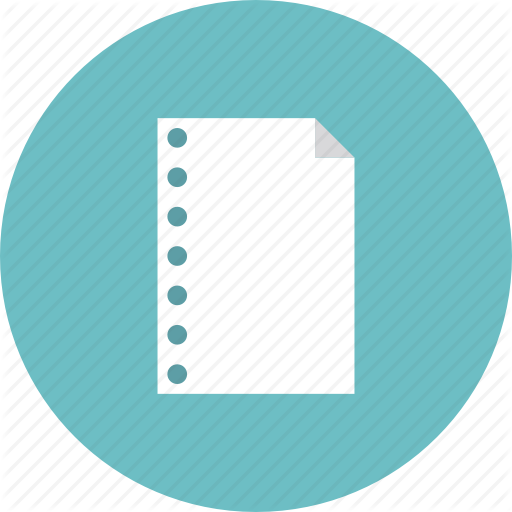
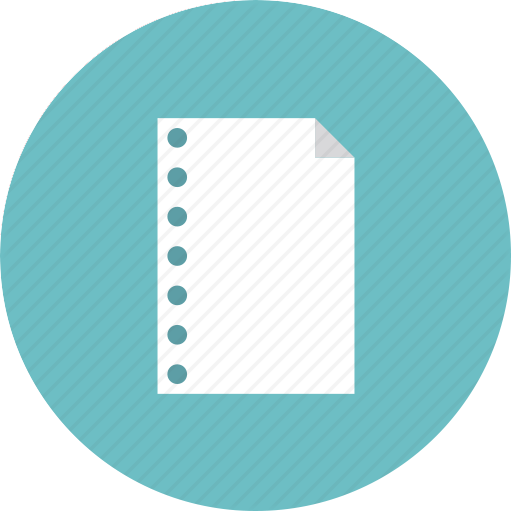
Add new no-items image, add search to context, create useSearch, add findQuotes util

diff --git a/src/context/quotesListContext/index.js b/src/context/quotesListContext/index.js
@@ -1,16 +1,19 @@
 import React, { createContext } from 'react';
 import PropTypes from 'prop-types';
 import { FIRST_PAGE } from "../../constants/pagination";
-import { getDataForCurrentPage } from "../../utils";
+import { findQuotes, getDataForCurrentPage } from "../../utils";
 import { quotesPerPage } from "../../services/getDeviceSize";
 import { initState } from '../../reducers/dataFetchReducer';
 import useFetchQuotesList from '../../hooks/useFetchQuotesList';
+import useSearch from "../../hooks/useSearch";
 import usePagination from "../../hooks/usePagination";
 
 const defaultQuotesList = {
   ...initState,
   totalPages: 1,
   currentPage: 1,
+  search: '',
+  updateSearch: () => {},
   fetchData: () => {},
   paginate: () => {},
 };
@@ -18,16 +21,23 @@ const defaultQuotesList = {
 const QuotesListContext = createContext(defaultQuotesList);
 
 const QuotesListProvider = ({ children }) => {
-  const [{ data, isError, isLoading }, fetchData] = useFetchQuotesList();
+  const [{ data: quotesList, isError, isLoading }, fetchData] = useFetchQuotesList();
+
+  const [search, updateSearch] = useSearch('');
+  const foundQuotes = findQuotes(search, quotesList);
+  const currentQuotesList = search ? foundQuotes : quotesList;
+
   const [currentPage, paginate] = usePagination(FIRST_PAGE);
-  const [totalPages, currentQuotesList] = getDataForCurrentPage(currentPage, data, quotesPerPage);
+  const [totalPages, data] = getDataForCurrentPage(currentPage, currentQuotesList, quotesPerPage);
 
   const value = {
-    data: currentQuotesList,
+    data,
     isError,
     isLoading,
     currentPage,
     totalPages,
+    search,
+    updateSearch,
     fetchData,
     paginate,
   };

diff --git a/src/screens/QuotesList/index.js b/src/screens/QuotesList/index.js
@@ -14,7 +14,7 @@ import Quote from '../../components/Quote';
 import styles from './styles';
 
 const QuotesList = ({ navigation }) => {
-    const { data, isError, isLoading, currentPage, totalPages, fetchData, paginate } = useContext(QuotesListContext);
+    const { data, isError, isLoading, currentPage, totalPages, search, updateSearch, fetchData, paginate } = useContext(QuotesListContext);
 
     const openDetails = (symbol, description, digits) => navigation.navigate(DETAILS_SCREEN, { symbol, description, digits });
 
@@ -36,7 +36,7 @@ const QuotesList = ({ navigation }) => {
 
     return (
         <View style={styles.container}>
-            <Search />
+            <Search onChangeText={updateSearch} value={search} />
 
             <View style={styles.quotes}>
                 <FlatList

diff --git a/src/utils/index.js b/src/utils/index.js
@@ -44,3 +44,10 @@ export const getDataForCurrentPage = (currentPage, dataList, listsPerPage) => {
 
     return [totalPages, currentDataList];
 };
+
+export const findQuotes = (search, quotesList) => quotesList.filter(({ symbol }) => {
+    const itemData = symbol.toUpperCase();
+    const textData = search.toUpperCase();
+
+    return itemData.match(textData);
+});

diff --git a/src/hooks/useSearch/index.js b/src/hooks/useSearch/index.js
@@ -1,0 +1,13 @@
+import { useState } from 'react';
+
+const useSearch = initialValue => {
+    const [search, setSearch] = useState(initialValue);
+
+    const updateSearch = value => {
+        setSearch(value);
+    };
+
+    return [search, updateSearch];
+};
+
+export default useSearch;
